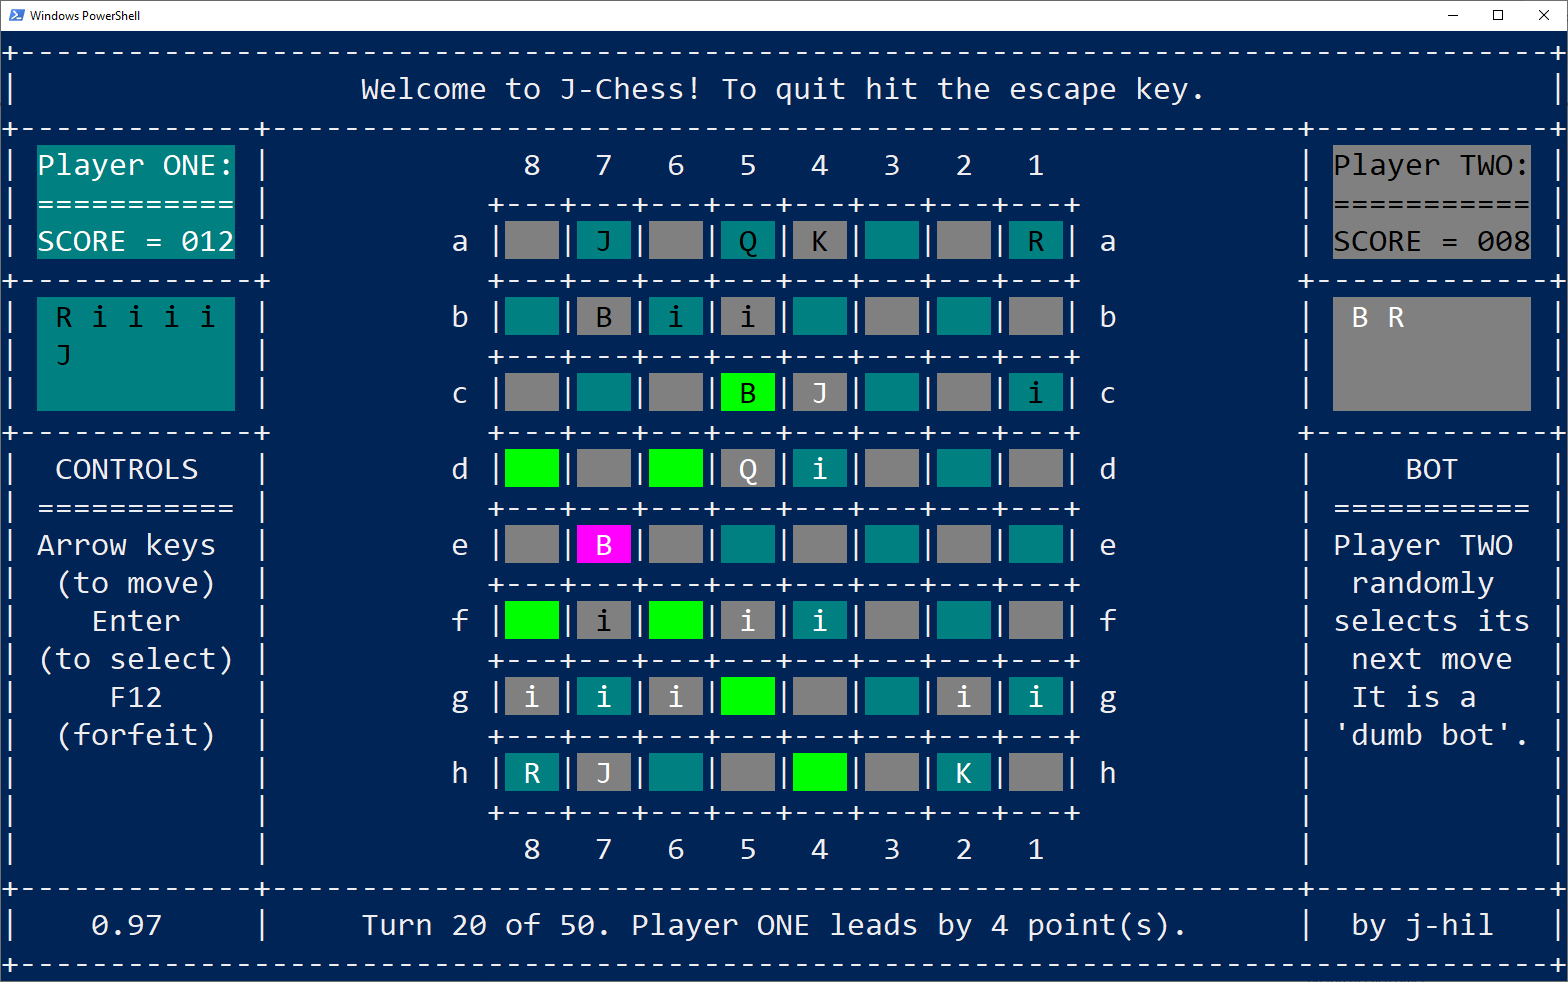
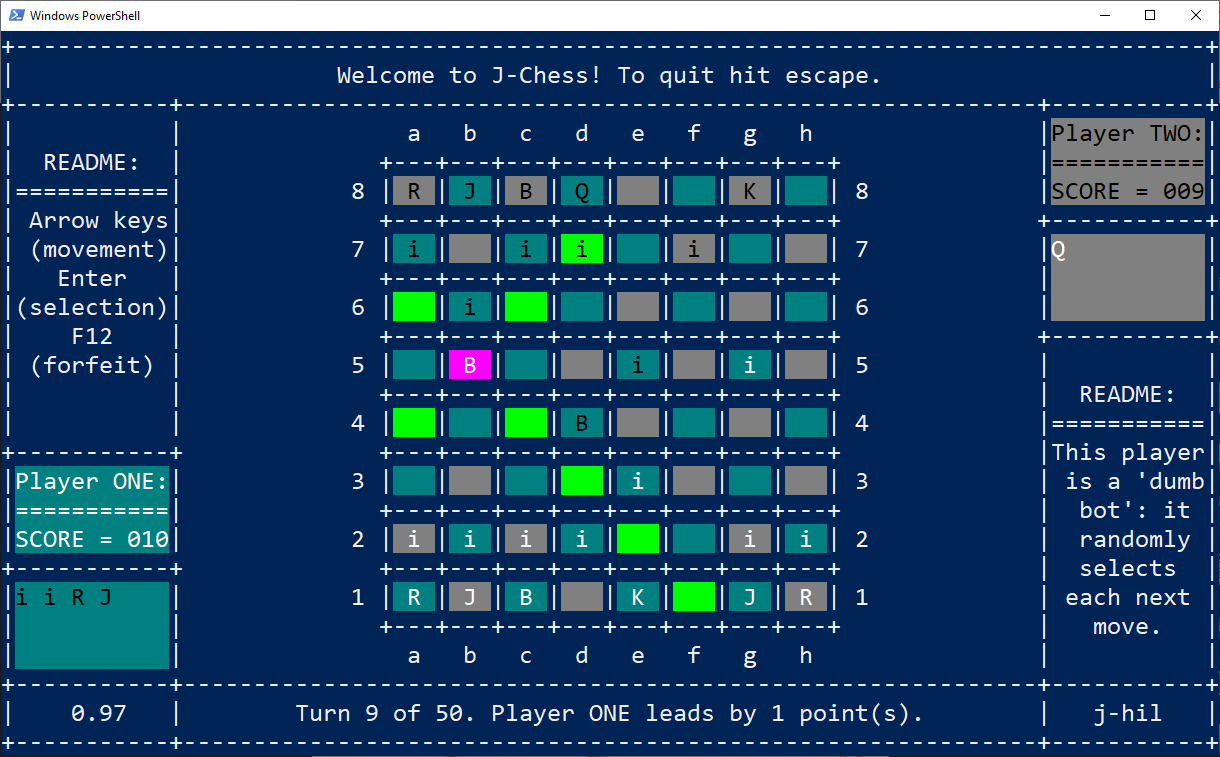
Update visuals and `README`
* Fix small visual glitches/omissions
* Bump version number
* Update badges and image in `README`

diff --git a/src/jchess/display/_class.py b/src/jchess/display/_class.py
@@ -15,16 +15,7 @@ from jchess.pieces import Player
 from jchess.terminal import ctrlseq
 
 from ._configs import Pallet, SymbolDict
-from ._constants import (
-    INFO_TEMPLATE,
-    MODE_STRINGS,
-    PROMOTION_TEMPLATE,
-    README_TEMPLATES,
-    START_TEMPLATE,
-    H,
-    Loc,
-    W,
-)
+from ._constants import MODE_STRINGS, H, Loc, Templates, W
 
 TypeExc = Type[BaseException]
 
@@ -71,14 +62,14 @@ class Display:
             elif status_prev is PROMOTING:
                 parts.extend(self.__clear_promotion())
 
-        if status is GAME_OVER:
-            parts.extend(self.__init_game_over())
-        elif status is START_MENU:
+        if status is START_MENU:
             parts.extend(self.__refresh_start())
         elif status is BOARD_FOCUS:
             parts.extend(self.__refresh_main())
         elif status is PROMOTING:
             parts.extend(self.__refresh_promotion())
+        elif status is GAME_OVER:
+            parts.extend(self.__init_game_over())
 
         print("".join(parts))
 
@@ -110,16 +101,20 @@ class Display:
             ctrlseq(headline.center(W.MAIN), at=Loc.HEADLINE, edge=True),
             ctrlseq(taken_blank, clr=self.pallet.board[1], at=Loc.LH_TAKEN, edge=True),
             ctrlseq(taken_blank, clr=self.pallet.board[0], at=Loc.RH_TAKEN, edge=True),
-            ctrlseq(README_TEMPLATES[Player.ONE][mode], at=Loc.LH_README, edge=True),
-            ctrlseq(README_TEMPLATES[Player.TWO][mode], at=Loc.RH_README, edge=True),
+            ctrlseq(Templates.README[Player.ONE][mode], at=Loc.LH_README, edge=True),
+            ctrlseq(Templates.README[Player.TWO][mode], at=Loc.RH_README, edge=True),
+            ctrlseq(Templates.COL_LABELS, at=Loc.COL_LABELS1),
+            ctrlseq(Templates.ROW_LABELS, at=Loc.ROW_LABELS1),
+            ctrlseq(Templates.COL_LABELS, at=Loc.COL_LABELS2),
+            ctrlseq(Templates.ROW_LABELS, at=Loc.ROW_LABELS2),
         ]
 
     def __clear_promotion(self) -> list[str]:
         mode = self.game.mode
         assert mode, "Mode should be set by this point in the game."
         return [
-            ctrlseq(README_TEMPLATES[Player.ONE][mode], at=Loc.LH_README, edge=True),
-            ctrlseq(README_TEMPLATES[Player.TWO][mode], at=Loc.RH_README, edge=True),
+            ctrlseq(Templates.README[Player.ONE][mode], at=Loc.LH_README, edge=True),
+            ctrlseq(Templates.README[Player.TWO][mode], at=Loc.RH_README, edge=True),
         ]
 
     def __init_game_over(self) -> list[str]:
@@ -139,7 +134,7 @@ class Display:
         mode_str = MODE_STRINGS[self.game.scursor]
         coord = (Loc.START[0], Loc.START[1] + 2 + self.game.scursor)
         return [
-            ctrlseq(START_TEMPLATE, at=Loc.START, edge=True),
+            ctrlseq(Templates.START, at=Loc.START, edge=True),
             ctrlseq(mode_str, clr=self.pallet.cursor, at=coord),
         ]
 
@@ -157,7 +152,7 @@ class Display:
             coord = Loc.LH_SCORE if player is Player.ONE else Loc.RH_SCORE
             parts.append(
                 ctrlseq(
-                    INFO_TEMPLATE.format(player, s[i]),
+                    Templates.INFO.format(player, s[i]),
                     clr=pallet.text[player],
                     at=coord,
                     edge=True,
@@ -173,9 +168,9 @@ class Display:
         # gutter message
         msg = f"Turn {board.ply // 2 + 1} of {MAX_PLY_COUNT // 2}. "
         if s[0] > s[1]:
-            msg += "Player ONE leads by {s[0] - s[1]} point(s)."
+            msg += f"Player ONE leads by {s[0] - s[1]} point(s)."
         elif s[1] > s[0]:
-            msg += "Player TWO leads by {s[1] - s[0]} point(s)."
+            msg += f"Player TWO leads by {s[1] - s[0]} point(s)."
         else:
             msg += "Players ONE & TWO are equal in score."
         parts.append(ctrlseq(msg.center(W.GUTTER), at=Loc.GUTTER))
@@ -223,6 +218,6 @@ class Display:
         color = self.pallet.cursor
         option_str = f"({role.symbol}) {role}"
         return [
-            ctrlseq(PROMOTION_TEMPLATE, at=(xp, yp)),
+            ctrlseq(Templates.PROMOTION, at=(xp, yp)),
             ctrlseq(option_str, clr=color, at=(xp, yp + 4 + self.game.pcursor)),
         ]

diff --git a/src/jchess/display/_constants.py b/src/jchess/display/_constants.py
@@ -63,6 +63,11 @@ class Loc:
 
     START = (V(W.MAIN, H.MAIN) - V(W.START, H.START)) // 2 + V(1, 1)
 
+    COL_LABELS1 = (30, 4)
+    COL_LABELS2 = (30, 22)
+    ROW_LABELS1 = (26, 6)
+    ROW_LABELS2 = (62, 6)
+
 
 def _make_readme(flag: Literal["rhs", "lhs", "bot"]) -> str:
     if flag in ["rhs", "lhs"]:
@@ -113,23 +118,31 @@ def _make_start_menu() -> str:
     return "\n".join(l.center(W.START) for l in lines)
 
 
-INFO_TEMPLATE = """\
-Player {}:
-===========
-SCORE = {:0>3}\
-"""
-START_TEMPLATE = _make_start_menu()
-PROMOTION_TEMPLATE = _make_promotion()
-README_TEMPLATES = {
-    Player.ONE: {
-        Mode.TDB: _make_readme("bot"),
-        Mode.VDB: _make_readme("rhs"),
-        Mode.LTP: _make_readme("lhs"),
-    },
-    Player.TWO: {
-        Mode.TDB: _make_readme("bot"),
-        Mode.VDB: _make_readme("bot"),
-        Mode.LTP: _make_readme("rhs"),
-    },
-}
+class Templates:
+    # just a namespace
+    INFO = "\n".join(
+        [
+            "Player {}:",
+            "===========",
+            "SCORE = {:0>3}",
+        ]
+    )
+    START = _make_start_menu()
+    PROMOTION = _make_promotion()
+    README = {
+        Player.ONE: {
+            Mode.TDB: _make_readme("bot"),
+            Mode.VDB: _make_readme("rhs"),
+            Mode.LTP: _make_readme("lhs"),
+        },
+        Player.TWO: {
+            Mode.TDB: _make_readme("bot"),
+            Mode.VDB: _make_readme("bot"),
+            Mode.LTP: _make_readme("rhs"),
+        },
+    }
+    ROW_LABELS = "\n \n".join(str(s) for s in range(8, 0, -1))
+    COL_LABELS = "   ".join("abcdefgh")
+
+
 MODE_STRINGS = [f"{m.value: ^{W.START}}" for m in Mode]

diff --git a/README.md b/README.md
@@ -1,12 +1,9 @@
 # J-Chess: Play chess in the console!
 
-[![linting: pylint](https://img.shields.io/badge/linting-pylint-yellowgreen)](https://github.com/PyCQA/pylint)
-
-[![code style: black](https://img.shields.io/badge/code%20style-black-000000.svg)](https://github.com/ambv/black)
-
-[![Imports: isort](https://img.shields.io/badge/%20imports-isort-%231674b1?style=flat&labelColor=ef8336)](https://pycqa.github.io/isort/)
-
 [![Checked with mypy](http://www.mypy-lang.org/static/mypy_badge.svg)](http://mypy-lang.org/)
+[![linting: pylint](https://img.shields.io/badge/linting-pylint-yellowgreen)](https://github.com/PyCQA/pylint)
+[![code style: black](https://img.shields.io/badge/code%20style-black-000000.svg)](https://github.com/ambv/black)
+[![Imports: isort](https://img.shields.io/badge/%20imports-isort-%231674b1?style=flat&labelColor=ef8336)](https://pycqa.github.io/isort/)
 
 
 <h1 align="center">
